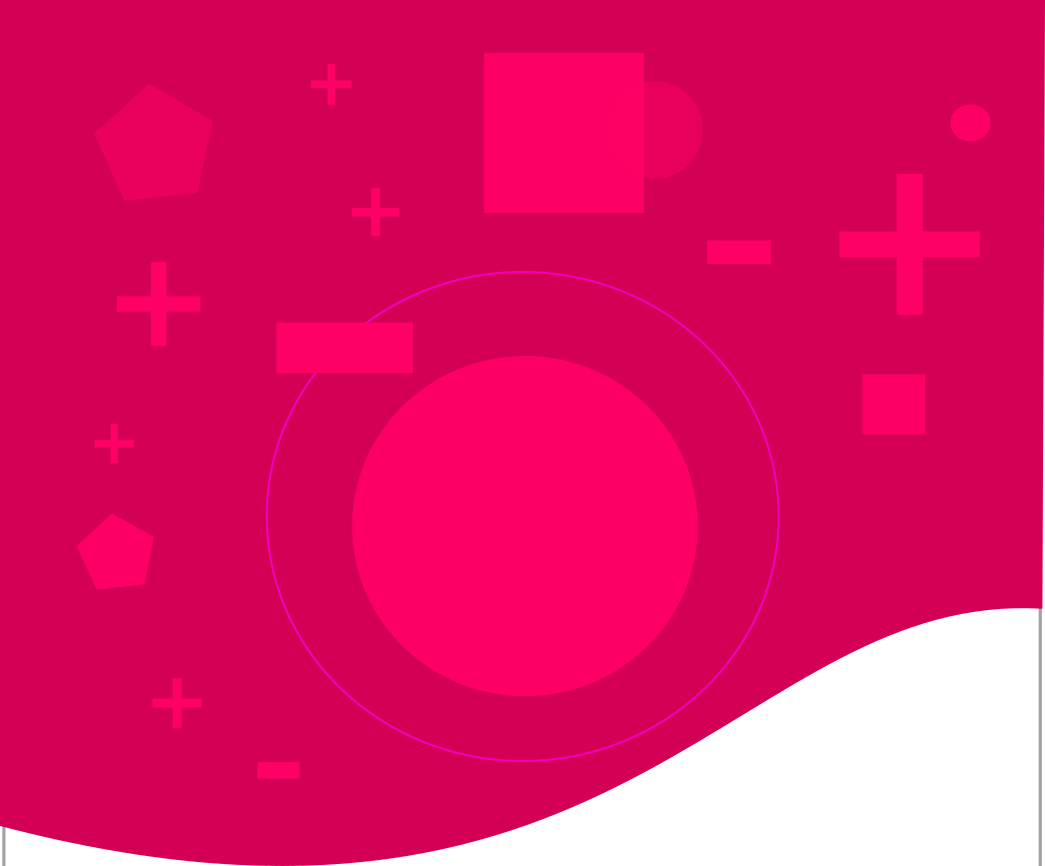
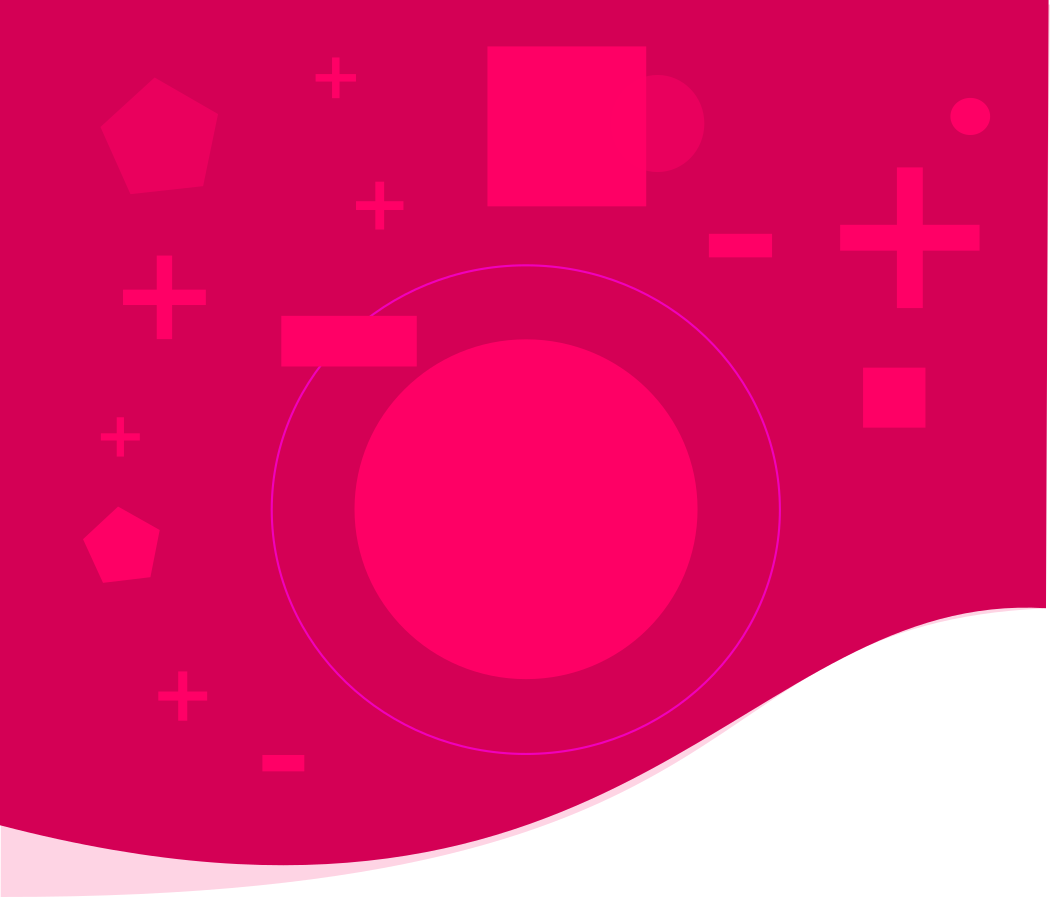
redesign login page app

diff --git a/src/descola/lib/view/signup.view.dart b/src/descola/lib/view/signup.view.dart
@@ -19,33 +19,59 @@ class _SignupViewState extends State<SignupView> {
         child: SingleChildScrollView(
           child: Column(
             mainAxisAlignment: MainAxisAlignment.center,
-            
             children: [
-              Text(
-                "LOGIN",
-                style: TextStyle(
-                    fontWeight: FontWeight.bold, 
-                    color: Colors.white,
-                    fontSize: 20,
+              SizedBox(height: 270),
+              Container(
+                decoration: BoxDecoration(
+                    color: Color(0xfffce4ec),
+                    border: Border.all(
+                      color: Colors.pink[100],
                     ),
+                    borderRadius: BorderRadius.circular(5)),
+                padding: EdgeInsets.all(20),
+                margin: EdgeInsets.all(15),
+                child: Column(
+                  children: [
+                    Text(
+                      "LOGIN",
+                      style: TextStyle(
+                        fontWeight: FontWeight.bold,
+                        color: Colors.pink,
+                        fontSize: 20,
+                      ),
+                    ),
+                    SizedBox(height: 30),
+                    RoundTextInput(
+                      onChanged: (value) {},
+                      hintText: 'Email ou número de telefone',
+                    ),
+                    RoundPasswordInput(
+                      onChanged: (value) {},
+                      hintText: 'Senha',
+                    ),
+                    RoundButton(
+                      buttonColor: primary,
+                      onClick: () {},
+                      text: "ENTRAR",
+                    ),
+                    Row(
+                       mainAxisAlignment: MainAxisAlignment.center,
+                      children: [
+                        GestureDetector(
+                          onTap: () {},
+                          child: Text(
+                            "Esqueceu sua senha?",
+                            style: TextStyle(
+                              color: primary,
+                              fontWeight: FontWeight.bold,
+                            ),
+                          ),
+                        )
+                      ],
+                    )
+                  ],
+                ),
               ),
-              SizedBox(
-                height: s.height * 0.24,
-              ),
-              RoundTextInput(
-                onChanged: (value) {},
-                hintText: 'Email ou número de telefone',
-              ),
-
-              RoundPasswordInput(
-                onChanged: (value) {},
-                hintText: 'Senha',
-              ),
-              RoundButton(
-                buttonColor: primary,
-                onClick: () {},
-                text: "LOGIN",
-              )
             ],
           ),
         ),

diff --git a/src/descola/lib/view/components/signup.background.dart b/src/descola/lib/view/components/signup.background.dart
@@ -17,23 +17,19 @@ class LoginBackGround extends StatelessWidget {
       height: s.height,
       child: Stack(
         alignment: Alignment.center,
+
         children: <Widget>[
           Positioned(
             top: 0,
             left: 0,
+            
             child: Image.asset(
               "assets/images/LoginTop.png",
-              width: s.width ,
+              width: s.width + 1 ,
+             
             ),
           ),
-          Positioned(
-            bottom: 0,
-            right: 0,
-            child: Image.asset(
-              "assets/images/LoginTail.png",
-              width: s.width,
-            ),
-          ),
+         
           child,
         ],
       ),

diff --git a/src/descola/lib/globalcomponents/textinputcontainer.dart b/src/descola/lib/globalcomponents/textinputcontainer.dart
@@ -17,8 +17,8 @@ class TextInputContainer extends StatelessWidget {
      Size s = MediaQuery.of(context).size;
 
     return Container(
-      margin: EdgeInsets.symmetric(vertical: 10),
-      padding: EdgeInsets.symmetric(horizontal: 20, vertical: 3),
+      margin: EdgeInsets.symmetric(vertical: 7),
+      padding: EdgeInsets.symmetric(horizontal: 20, vertical: 1),
       width: s.width * 0.9,
       decoration: BoxDecoration(
         color: primaryLight,

diff --git a/src/descola/lib/globalcomponents/roundbutton.dart b/src/descola/lib/globalcomponents/roundbutton.dart
@@ -21,7 +21,8 @@ class RoundButton extends StatelessWidget {
     Size s = MediaQuery.of(context).size;
 
     return Container(
-      margin: EdgeInsets.symmetric(vertical: 20),
+      margin: EdgeInsets.symmetric(vertical: 3),
+       padding: EdgeInsets.symmetric(vertical: 20, horizontal: 1),
       width: s.width * 0.9,
       child: ClipRRect(
         borderRadius: BorderRadius.circular(29),

diff --git a/src/descola/lib/globalcomponents/roundpasswordinput.dart b/src/descola/lib/globalcomponents/roundpasswordinput.dart
@@ -4,7 +4,7 @@ import 'package:flutter/material.dart';
 import '../colors.dart';
 
 class RoundPasswordInput extends StatelessWidget {
- final ValueChanged<String> onChanged;
+  final ValueChanged<String> onChanged;
   final String hintText;
 
   const RoundPasswordInput({

diff --git a/src/descola/lib/colors.dart b/src/descola/lib/colors.dart
@@ -1,4 +1,4 @@
 import 'package:flutter/material.dart';
 
 const primary = Color(0xffc51162);
-const primaryLight = Color(0xfff48fb1);
+const primaryLight = Color(0xffffcdd2);

diff --git a/README.md b/README.md
@@ -1,0 +1,9 @@
+# Descola (LOGIN PAGE UI) - Powered with Flutter
+
+A beautful app for learn some concepts from ux on Flutter.
+
+### Desing by myself
+
+![UI prototype concept](/prototipoLoginUI.png)
+![App Login Page](/loginapp.png)
+
